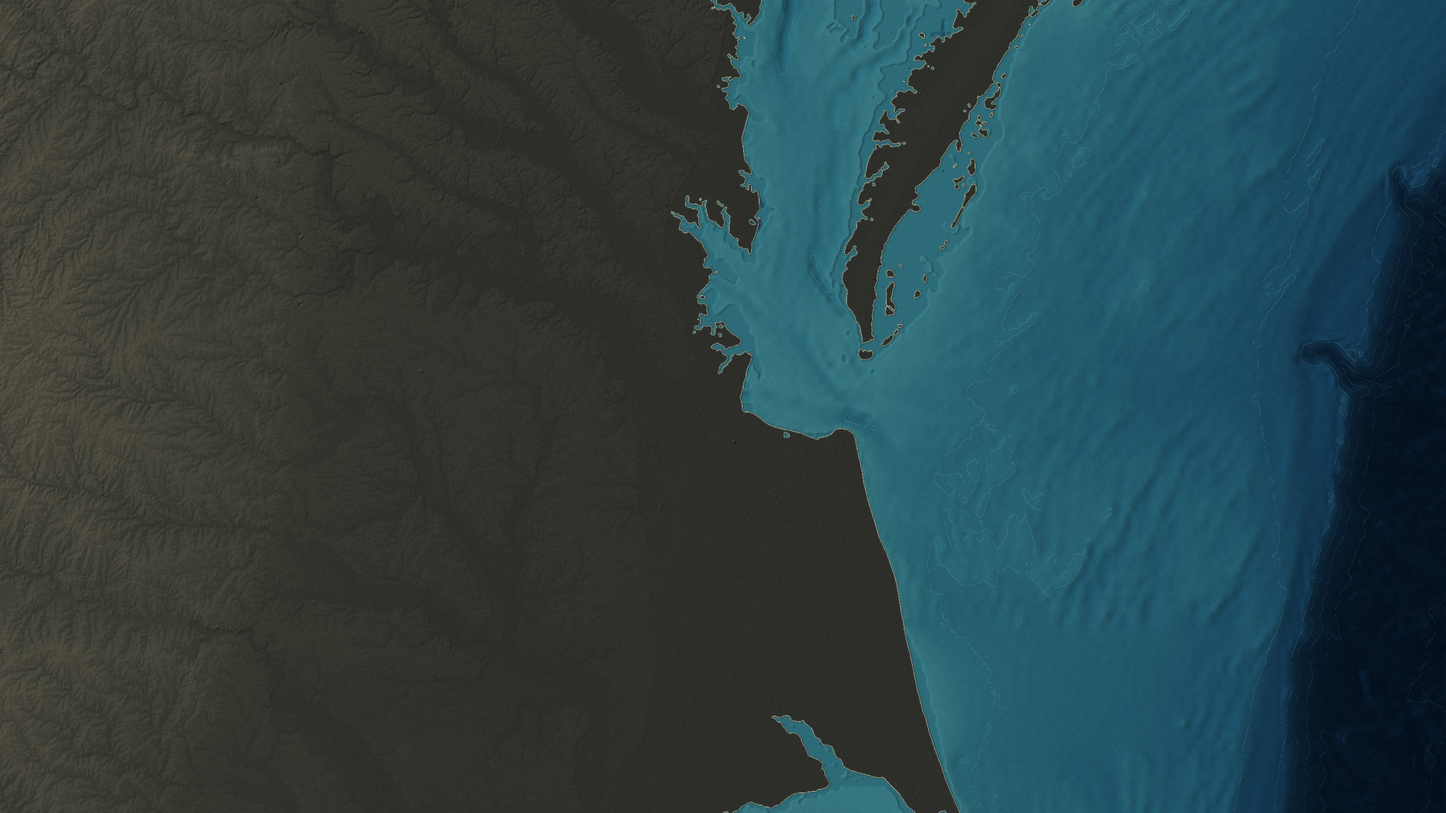
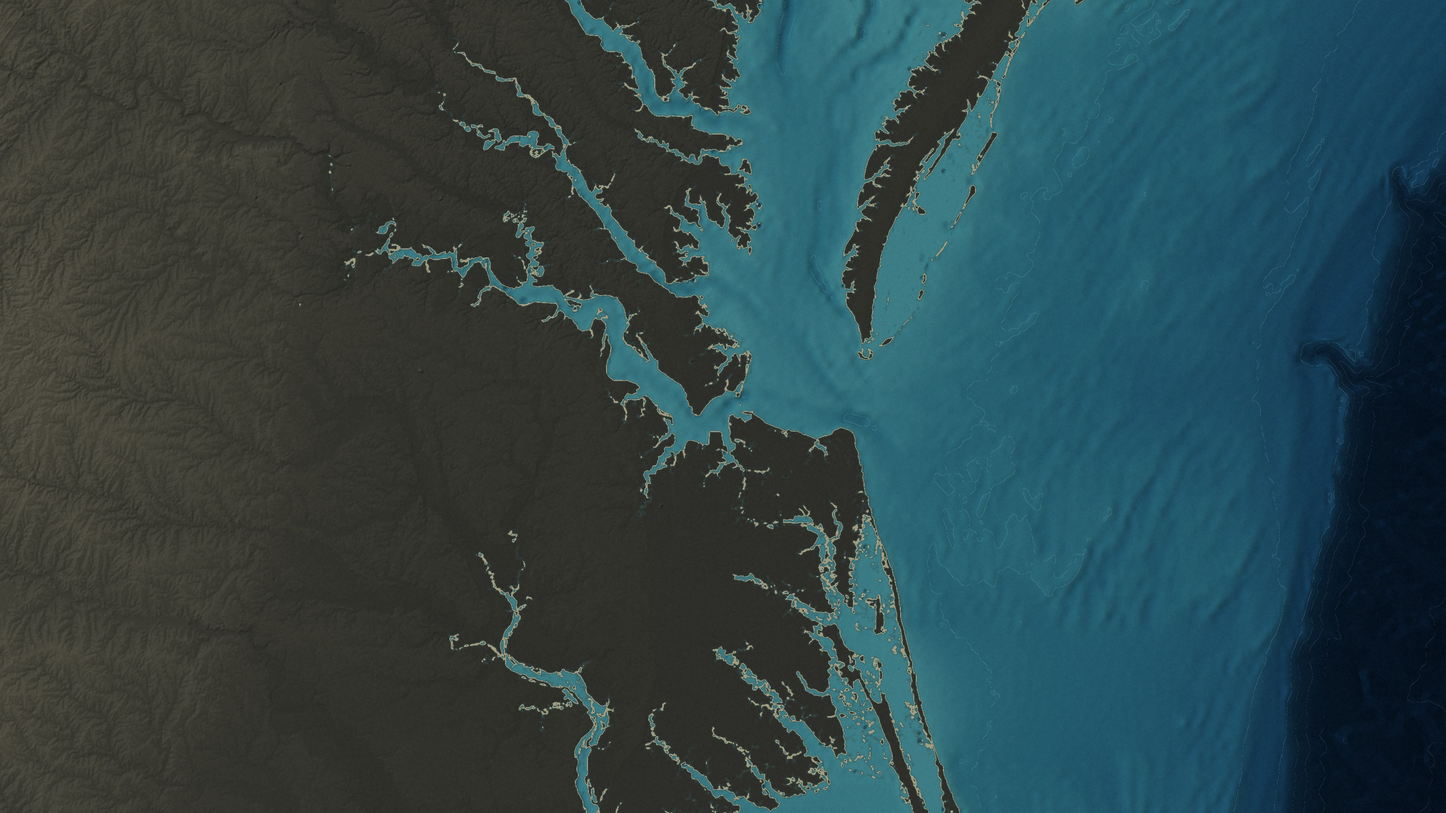
USS Ranger: 31 map scenes (map agent), maps sheet, Hampton Roads basemap re-baked without the broken water mask
Claude-Session: https://claude.ai/code/session_011uJnjBMHyrGfUdHA1977Gt

diff --git a/videos/uss_ranger/full/mk/scenes-src/c04_vietnam.js b/videos/uss_ranger/full/mk/scenes-src/c04_vietnam.js
@@ -3,11 +3,11 @@
 const S = ShipK(), B = S.B, END = S.END, wt = S.wt, P = S.P, G = S.G;
 const RED = "#D9572B", WH = "#f3eee2", ST = "#8fb0cc";
 const YS = P("YANKEE");
-S.camera([[0, 1380, 780, 1.3], [END, 1400, 790, 1.5]]);
+S.camera([[0, 1380, 760, 1.6], [END, 1395, 765, 1.9]]);
 S.date("SUMMER 1964", wt("summer", 0.34));
 S.label("GULF OF TONKIN", P("TONKIN"), { t: wt("waters", 3.3), anchor: "c", size: 54, color: ST });
-S.label("VIETNAM", G(16.5, 106.3), { t: wt("Vietnam", 3.9), anchor: "c", size: 52 });
-const cv = S.cv(G(15.5, 112), { t: wt("sailed", 2.6), len: 120, rot: 150 });
+S.label("VIETNAM", G(16.8, 105.2), { t: wt("Vietnam", 3.9), anchor: "c", size: 52 });
+const cv = S.cv(G(15.5, 112), { t: wt("sailed", 2.6), len: 90, rot: 150 });
 S.sail(cv, S.path([[15.5, 112], [16.5, 110], [17.5, 108.5]]), { t: wt("sailed", 2.6), dur: 1.2, ease: "power2.out" });
-S.pin(YS, "YANKEE STATION", { t: wt("sailed", 2.6) + 1.2, color: RED, anchor: "r", size: 40, gap: 70, dy: 40, ringR: 40 });
+S.pin(YS, "YANKEE STATION", { t: wt("sailed", 2.6) + 1.2, color: RED, anchor: "r", size: 40, gap: 70, dy: 20, ringR: 34 });
 S.finish();

diff --git a/videos/uss_ranger/full/mk/scenes-src/c04_arabian.js b/videos/uss_ranger/full/mk/scenes-src/c04_arabian.js
@@ -2,11 +2,11 @@
 // IRAN on 'Iran'; 1980 on 'eighty'; ARABIAN SEA on 'Arabian'; carrier in the Arabian Sea.
 const S = ShipK(), B = S.B, END = S.END, wt = S.wt, P = S.P, G = S.G;
 const RED = "#D9572B", WH = "#f3eee2", ST = "#8fb0cc";
-const AR = G(17.5, 63);
+const AR = G(19.5, 64);
 S.camera([[0, 1580, 860, 0.85], [END, 1650, 930, 1.0]]);
 S.date("1980", wt("eighty", 0.61));
 S.label("IRAN", P("IRAN"), { t: wt("Iran", 1.72), anchor: "c", size: 64 });
-S.label("ARABIAN SEA", G(14.5, 63), { t: wt("Arabian", 4.48), anchor: "c", size: 60, color: ST });
-const cv = S.cv(AR, { t: wt("waited", 3.7), len: 130, rot: 20 });
+S.label("ARABIAN SEA", G(15.5, 63.5), { t: wt("Arabian", 4.48), anchor: "c", size: 60, color: ST });
+const cv = S.cv(AR, { t: wt("waited", 3.7), len: 110, rot: 20 });
 S.ring(AR, { t: wt("waited", 3.7), r: 70, color: RED });
 S.finish();

diff --git a/videos/uss_ranger/full/mk/scenes-src/c04_gulf.js b/videos/uss_ranger/full/mk/scenes-src/c04_gulf.js
@@ -7,7 +7,7 @@ S.camera([[0, 1700, 950, 0.95], [3.0, 1600, 880, 1.15], [END, 1480, 800, 1.35]])
 S.date("DECEMBER 1990", wt("December", 0.26));
 const t0 = wt("left", 2.3) - 0.2, cv = S.cv(path[0], { t: t0, len: 120, rot: 0 });
 S.sail(cv, path, { t: t0, dur: END - t0 - 0.5, ease: "power1.inOut" });
-S.label("(FROM SAN DIEGO)", path[0], { t: wt("San", 2.54), anchor: "b", size: 34, gap: 50, color: ST });
-S.label("PERSIAN GULF", P("PERSGULF"), { t: wt("Persian", 3.68), anchor: "c", size: 56, color: ST });
+S.label("(FROM SAN DIEGO)", path[0], { t: wt("San", 2.54), anchor: "b", size: 34, gap: 50, color: ST, until: 3.6 });
+S.label("PERSIAN GULF", G(25.9, 52.6), { t: wt("Persian", 3.68), anchor: "c", size: 56, color: ST });
 S.label("STRAIT OF HORMUZ", P("HORMUZ"), { t: wt("Gulf", 3.98), anchor: "r", size: 36, gap: 40, dy: 36 });
 S.finish();

diff --git a/videos/uss_ranger/full/mk/scenes-src/c04_somalia.js b/videos/uss_ranger/full/mk/scenes-src/c04_somalia.js
@@ -2,10 +2,10 @@
 // SOMALIA on 'Somalia'; MOGADISHU pin; DECEMBER 1992 on 'December'; carrier offshore.
 const S = ShipK(), B = S.B, END = S.END, wt = S.wt, P = S.P, G = S.G;
 const RED = "#D9572B", WH = "#f3eee2", ST = "#8fb0cc";
-const MG = P("MOGADISHU"), CVp = G(2.4, 47.2);
+const MG = P("MOGADISHU"), CVp = G(1.5, 47.0);
 S.camera([[0, 1420, 820, 1.4], [END, 1430, 815, 1.65]]);
 S.date("DECEMBER 1992", wt("December", 0.36));
-S.label("SOMALIA", G(4.3, 44.3), { t: wt("Somalia", 3.0), anchor: "c", size: 64 });
+S.label("SOMALIA", G(3.9, 42.8), { t: wt("Somalia", 3.0), anchor: "c", size: 64 });
 S.pin(MG, "MOGADISHU", { t: 0.9, color: RED, anchor: "l", size: 44, gap: 36, dy: 30, ringR: 32 });
-S.cv(CVp, { t: wt("off", 2.8), len: 120, rot: 35 });
+S.cv(CVp, { t: wt("off", 2.8), len: 100, rot: 35 });
 S.finish();

diff --git a/videos/uss_ranger/full/mk/scenes-src/c07_arrive.js b/videos/uss_ranger/full/mk/scenes-src/c07_arrive.js
@@ -7,7 +7,7 @@ S.camera([[0, 1650, 760, 1.6], [END, 1560, 748, 2.2]]);
 S.date("12 JULY 2015", 0.3);
 const J1 = G(26.074, -97.152), J2 = G(26.074, -97.108), J3 = G(26.062, -97.152), J4 = G(26.062, -97.108);
 S.route([J1, J2], { t: 0.1, dur: 0.3, width: 6, color: WH }); S.route([J3, J4], { t: 0.1, dur: 0.3, width: 6, color: WH });
-S.label("JETTIES", J2, { t: wt("jetties", 1.02), anchor: "r", size: 34, gap: 30, color: WH });
+S.label("JETTIES", J2, { t: wt("jetties", 1.02), anchor: "t", size: 34, gap: 40, color: WH });
 const cv = S.cv(st, { t: 0.2, len: 120, rot: 180 });
 S.sail(cv, [st, G(26.068, -97.12), BZ], { t: 0.3, dur: END - 0.6, ease: "power1.inOut" });
 for (let i = 0; i < 14; i++) S.dot(S.off(J2, -i * 150 + 100, i % 2 ? 260 : -260), { t: wt("Crowds", 0.12) + i * 0.04, r: 4, color: WH, rings: false });

diff --git a/videos/uss_ranger/full/mk/scenes-src/c07_route_b.js b/videos/uss_ranger/full/mk/scenes-src/c07_route_b.js
@@ -7,6 +7,6 @@ S.camera([[0, 1500, 900, 0.8], [END, 1380, 640, 1.0]]);
 S.route(S.path(S.TOW_PAC), { t: 0, dur: 0.01, width: 6, color: RED });
 S.route(S.path(S.TOW_ATL), { t: 0.15, dur: END - 1.0, width: 7, color: RED, head: "ship", ease: "none" });
 S.label("ATLANTIC OCEAN", G(-8, -24), { t: wt("Atlantic", 1.24), anchor: "c", size: 54, color: ST });
-S.label("GULF OF MEXICO", G(24, -90), { t: wt("Gulf", 2.78), anchor: "c", size: 46, color: ST });
-S.pin(BV, "BROWNSVILLE", { t: END - 0.9, color: RED, anchor: "l", size: 40, gap: 28, dy: 20, ringR: 28 });
+S.label("GULF OF MEXICO", G(23.5, -86), { t: wt("Gulf", 2.78), anchor: "c", size: 40, color: ST });
+S.pin(BV, "BROWNSVILLE", { t: END - 0.9, color: RED, anchor: "l", size: 36, gap: 28, dy: 30, ringR: 28 });
 S.finish();

diff --git a/videos/uss_ranger/full/mk/scenes-src/c08_endscreen.js b/videos/uss_ranger/full/mk/scenes-src/c08_endscreen.js
@@ -3,7 +3,7 @@
 const S = ShipK(), B = S.B, END = S.END, wt = S.wt, P = S.P, G = S.G;
 const RED = "#D9572B", WH = "#f3eee2", ST = "#8fb0cc";
 const BR = P("BREMERTON"), BV = P("BROWNSVILLE");
-S.camera([[0, 1680, 810, 0.8], [END, 1590, 860, 0.84]]);
+S.camera([[0, 1583, 890, 0.74], [END, 1500, 850, 0.74]]);
 S.pin(BR, "BREMERTON", { t: 0.3, color: WH, anchor: "r", size: 40, gap: 28, ringR: 26 });
 S.route(S.path(S.TOW), { t: 0.4, dur: 4.5, width: 6, color: RED, head: "ship", ease: "none" });
 S.pin(BV, "BROWNSVILLE", { t: 4.5, color: RED, anchor: "l", size: 40, gap: 28, dy: 20, ringR: 28 });

diff --git a/videos/uss_ranger/full/mk/scenes-src/c03_northisland.js b/videos/uss_ranger/full/mk/scenes-src/c03_northisland.js
@@ -8,5 +8,5 @@ S.date("STAR TREK IV · 1986", wt("days", 1.0));
 S.dot(NI, { t: 0.2, r: 11, color: RED }); S.ring(NI, { t: 0.2, color: RED, r: 34 });
 S.tag("3 DAYS", NI, { t: wt("three", 0.7), anchor: "r", size: 56, gap: 70, dy: 40, boxColor: "rgba(150,40,30,.92)" });
 S.label("NORTH ISLAND", NI, { t: wt("North", 1.9), anchor: "l", size: 46, gap: 40, dy: -30 });
-S.label("SAN DIEGO", G(32.72, -117.12), { t: wt("San", 3.1), anchor: "r", size: 40, color: ST });
+S.label("SAN DIEGO", G(32.75, -117.13), { t: wt("San", 3.1), anchor: "r", size: 40, color: ST, dy: -40 });
 S.finish();
